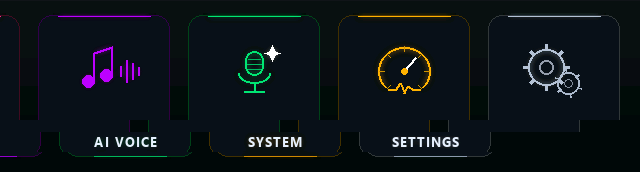
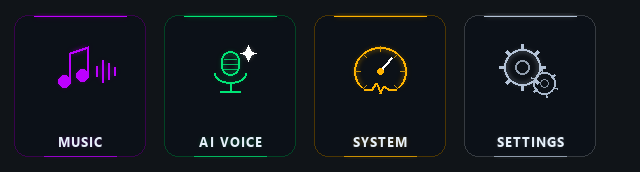
fix(docs): repair menu screenshot offset and reformat REST API table

diff --git a/README.md b/README.md
@@ -219,8 +219,10 @@ TuneBar features a unified media player engine that seamlessly handles both **Lo
 1. **Acoustic Front-End**:
    - Dual onboard MEMS microphones capture audio via the ES7210 4-channel ADC at 16 kHz / 16-bit mono.
    - Dynamic Voice Activity Detection (VAD) monitors energy levels and automatically terminates recording after speech pauses.
-2. **Local Loopback Verification**:
-   - Audio is saved to `/rec.wav` on LittleFS and immediately echoed locally through the speaker to confirm capture quality.
+2. **Local Loopback Verification (Zero-Cloud Audio Auditing)**:
+   - **LittleFS Buffer Persistence**: Every voice interaction is recorded directly to LittleFS flash as `/rec.wav` with a standardized 44-byte RIFF WAV header after digital DC-offset removal and peak normalization.
+   - **Local Acoustic Playback**: Recorded voice can be played back immediately through the ES8311 DAC and NS4150B amplifier without contacting external cloud servers, verifying microphone clarity, gain staging, and acoustic fidelity directly on hardware (`/api/rec?action=play` or serial `rec play`).
+   - **Diagnostic WAV Download**: Audio files can be inspected or extracted over the network via `http://<device-ip>/rec.wav` for automated STT benchmark analysis.
 3. **Low-Latency Cloud Pipeline**:
    - Audio payload is uploaded via background HTTPS TLS to the FastAPI backend.
    - **Groq Whisper Large V3 Turbo** transcribes speech in <200ms.
@@ -256,25 +258,26 @@ TuneBar hosts an embedded HTTP REST API on port 80:
 
 | Endpoint | Method | Parameters | Description |
 | :--- | :---: | :--- | :--- |
-| `/api/status` | `GET` | — | Returns full device telemetry JSON (screen, DRAM/PSRAM, battery, RSSI, radio lang, track, alarm, volume). |
-| `/api/screen` | `GET/POST`| `action=<clock\|weather\|alarm\|menu\|settings\|utility\|music\|radio\|chat>` | Switches active screen. Supports `tab=<0..4>` for Settings and `scroll=<px>` for Menu. |
-| `/api/touch` | `GET/POST`| `x=<X>&y=<Y>` or `swipe=<up\|down\|left\|right>` | Injects capacitive touch tap or gesture swipe event. |
-| `/api/radio/lang` | `GET/POST`| `set=<hi\|en\|es\|cn\|de\|ja>` or `id=<0..5>` | Dynamically loads pre-curated radio station list for language and saves to LittleFS/NVS. |
-| `/api/radio/catalog` | `POST`| `id=<0\|1>` | Toggles between OnlineRadioFM (`0`) and RadioIndia (`1`) for Hindi radio. |
-| `/api/radio/play` | `POST`| `idx=<0..N>` | Plays specific radio station from loaded catalog. |
-| `/api/radio/resume` | `POST`| — | Resumes playback of currently selected radio station. |
-| `/api/radio/stop` | `POST`| — | Stops audio playback. |
-| `/api/vol` | `POST`| `val=<0..21>` | Sets audio output volume (0 to 21). |
-| `/api/bl` | `POST`| `state=<0\|1\|2>` | Sets backlight brightness level (0=Low, 1=Med, 2=High). |
-| `/api/alarm` | `GET/POST`| `enabled=<0\|1>&time=<HH:MM>` | Reads or configures RTC alarm time and active state. |
-| `/api/alarm/stop` | `POST`| — | Stops currently sounding alarm buzzer. |
-| `/api/alarm/test` | `POST`| — | Triggers immediate test alarm audio. |
-| `/api/lan/server` | `GET/POST`| `url=<ip:port/path>` | Configures or inspects LAN streaming server address. |
-| `/api/lan/fetch` | `GET/POST`| — | Asynchronously triggers indexing of remote LAN music server. |
-| `/api/lan/play` | `GET/POST`| `idx=<0..N>` | Plays track index from indexed LAN library. |
-| `/api/rec` | `GET/POST`| `action=<rec\|stop\|play>` | Triggers voice recording, stops & processes, or plays back `/rec.wav`. |
-| `/api/ask` | `GET/POST`| `q=<text_query>` | Sends text question directly to AI Assistant over Wi-Fi. |
-| `/api/screenshot` | `GET` | — | Returns 100% authentic RGB24 BMP framebuffer screenshot (640×180). |
+| `/api/status` | `GET` | *none* | Full device telemetry JSON (screen, heap, battery, RSSI, radio, alarm). |
+| `/api/screen` | `GET/POST` | `action=<target>&tab=<N>&scroll=<px>` | Switch screen (`clock`, `weather`, `alarm`, `menu`, `settings`, `utility`, `music`, `radio`, `chat`). |
+| `/api/touch` | `GET/POST` | `x=<X>&y=<Y>` or `swipe=<dir>` | Injects capacitive touch tap coordinates or directional swipe gesture. |
+| `/api/radio/lang` | `GET/POST` | `set=<hi\|en\|es\|cn\|de\|ja>` | Dynamically loads pre-curated 10-station catalog for chosen language. |
+| `/api/radio/catalog` | `POST` | `id=<0\|1>` | Toggles between OnlineRadioFM (`0`) and RadioIndia (`1`) sub-catalogs. |
+| `/api/radio/play` | `POST` | `idx=<0..N>` | Plays specific station index from loaded catalog. |
+| `/api/radio/resume` | `POST` | *none* | Resumes playback of currently active radio station. |
+| `/api/radio/stop` | `POST` | *none* | Stops all audio playback and gates off audio amplifier power. |
+| `/api/vol` | `POST` | `val=<0..21>` | Sets master audio volume level. |
+| `/api/bl` | `POST` | `state=<0\|1\|2>` | Sets backlight brightness (0=Low: 35%, 1=Med: 65%, 2=High: 100%). |
+| `/api/alarm` | `GET/POST` | `enabled=<0\|1>&time=<HH:MM>` | Reads or configures RTC alarm wake-up time and armed state. |
+| `/api/alarm/stop` | `POST` | *none* | Silences currently active alarm buzzer. |
+| `/api/alarm/test` | `POST` | *none* | Triggers immediate test alarm audio sequence. |
+| `/api/lan/server` | `GET/POST` | `srv=<ip:port/path>` | Configures or inspects LAN music server target URL. |
+| `/api/lan/fetch` | `GET/POST` | *none* | Triggers asynchronous indexing of remote LAN music tracks. |
+| `/api/lan/play` | `GET/POST` | `idx=<0..N>` | Plays track index from indexed LAN library. |
+| `/api/rec` | `GET/POST` | `action=<start\|stop\|play>` | Triggers voice recording, stops & normalizes, or plays local `/rec.wav` loopback. |
+| `/api/ask` | `GET/POST` | `q=<text_query>` | Sends text query to AI Assistant pipeline over Wi-Fi. |
+| `/api/telemetry` | `POST` | `action=<snap\|flush>` | Captures immediate telemetry sample or flushes ring buffer to server. |
+| `/api/screenshot` | `GET` | *none* | Dumps live 640×172 RGB24 BMP framebuffer screenshot over HTTP. |
 
 ---
 
@@ -426,6 +429,6 @@ pio device monitor -b 115200
 * Original TuneBar project by **[VaAndCob](https://github.com/VaAndCob/TuneBar)**.
 * Core audio functionality powered by the **[ESP32-audioI2S](https://github.com/schreibfaul1/ESP32-audioI2S)** library.
 * UI engine powered by **[LVGL 8.4.0](https://lvgl.io/)**.
-* Advanced Audio Engineering, ES7210 driver fixes, DRAM optimization, power saving architecture, multilingual radio expansion, and AI Voice Assistant by **Rahul Raj**.
+* Advanced Audio Engineering, ES7210 driver fixes, DRAM optimization, power saving architecture, multilingual radio expansion, and AI Voice Assistant by **Rahul Raj** ([@rahulraj80](https://github.com/rahulraj80)).
 
-This project is licensed under the [Creative Commons Attribution-NonCommercial-ShareAlike 4.0 International (CC BY-NC-SA 4.0)](https://creativecommons.org/licenses/by-nc-sa/4.0/) license.
+This software and firmware codebase is licensed under the **GNU General Public License v3.0 (GPL-3.0)** (see [`LICENSE`](LICENSE)). Any hardware designs, UI assets, and media components derived from upstream TuneBar remain licensed under the [Creative Commons Attribution-NonCommercial-ShareAlike 4.0 International (CC BY-NC-SA 4.0)](https://creativecommons.org/licenses/by-nc-sa/4.0/) license. Attribution to original author Va&Cob and contributing author Rahul Raj is required on all derivative distributions.
